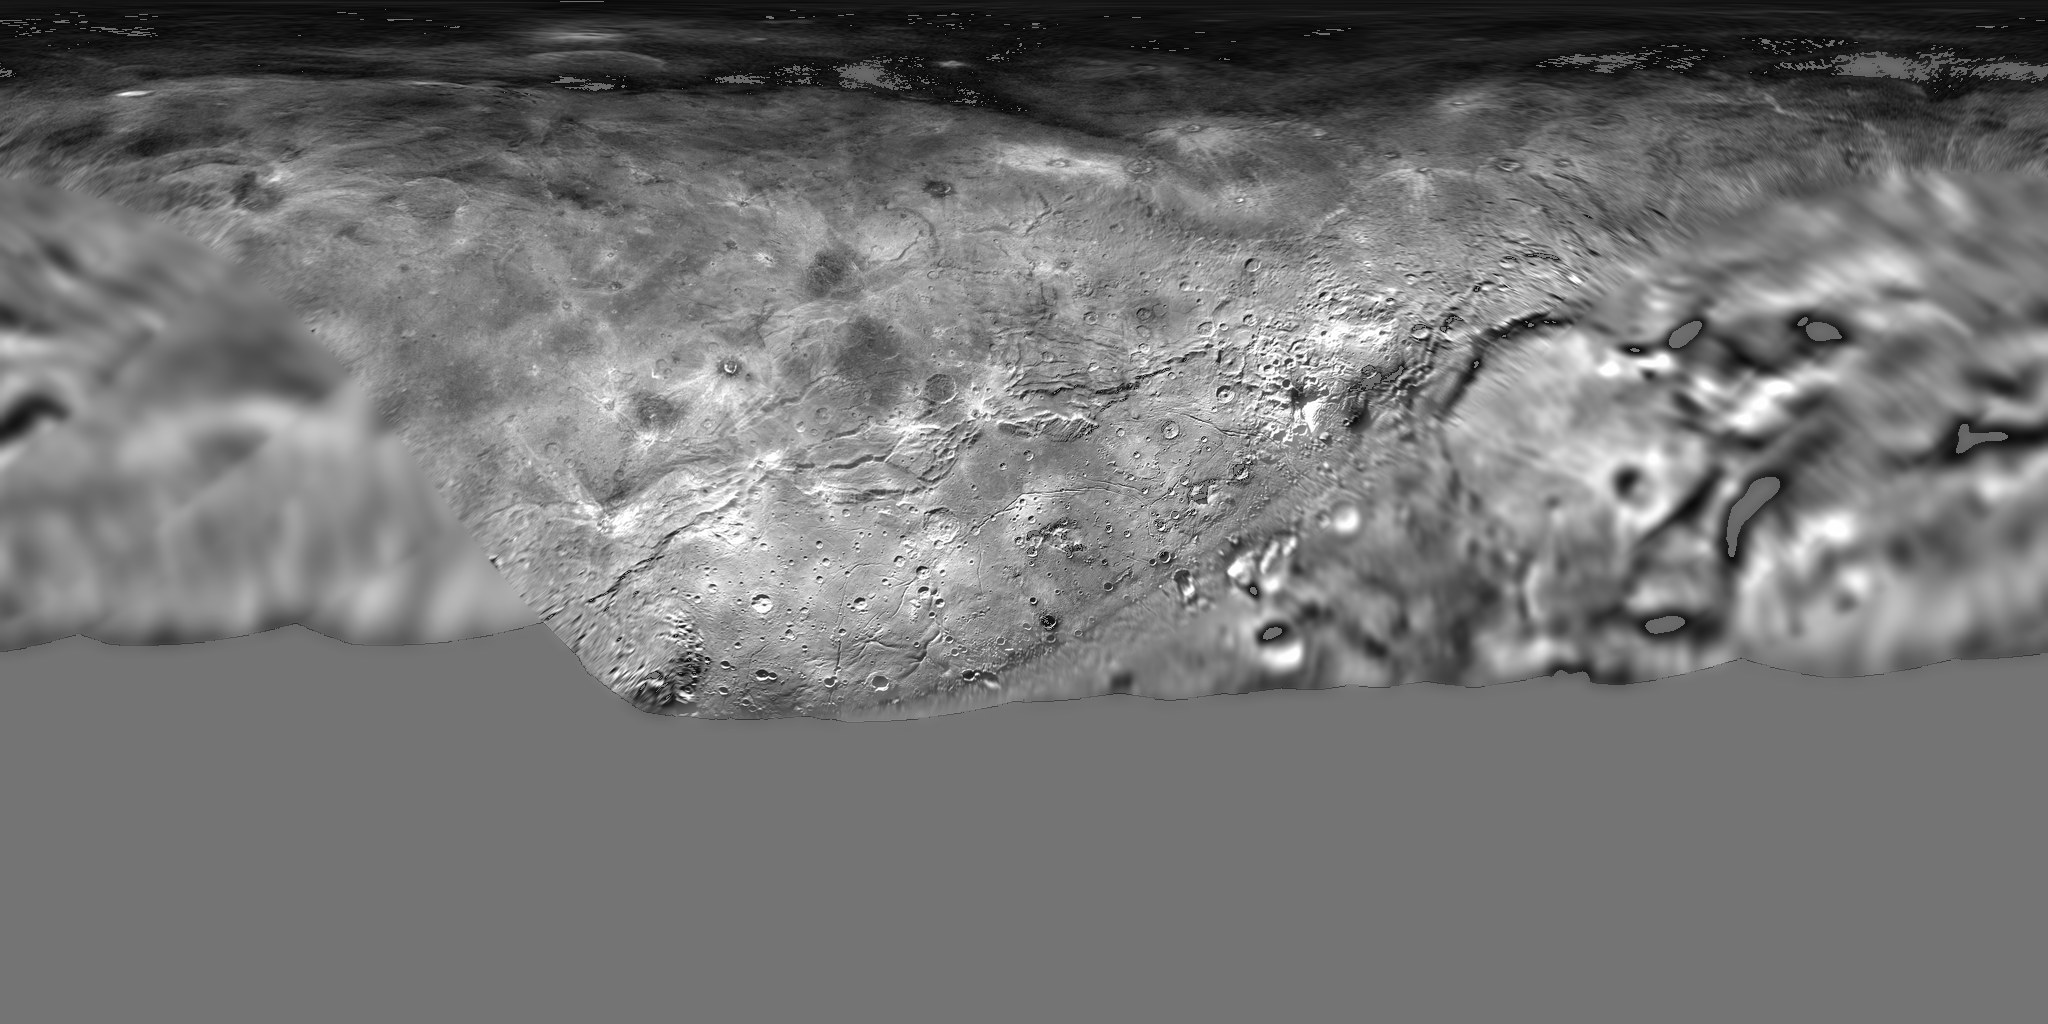
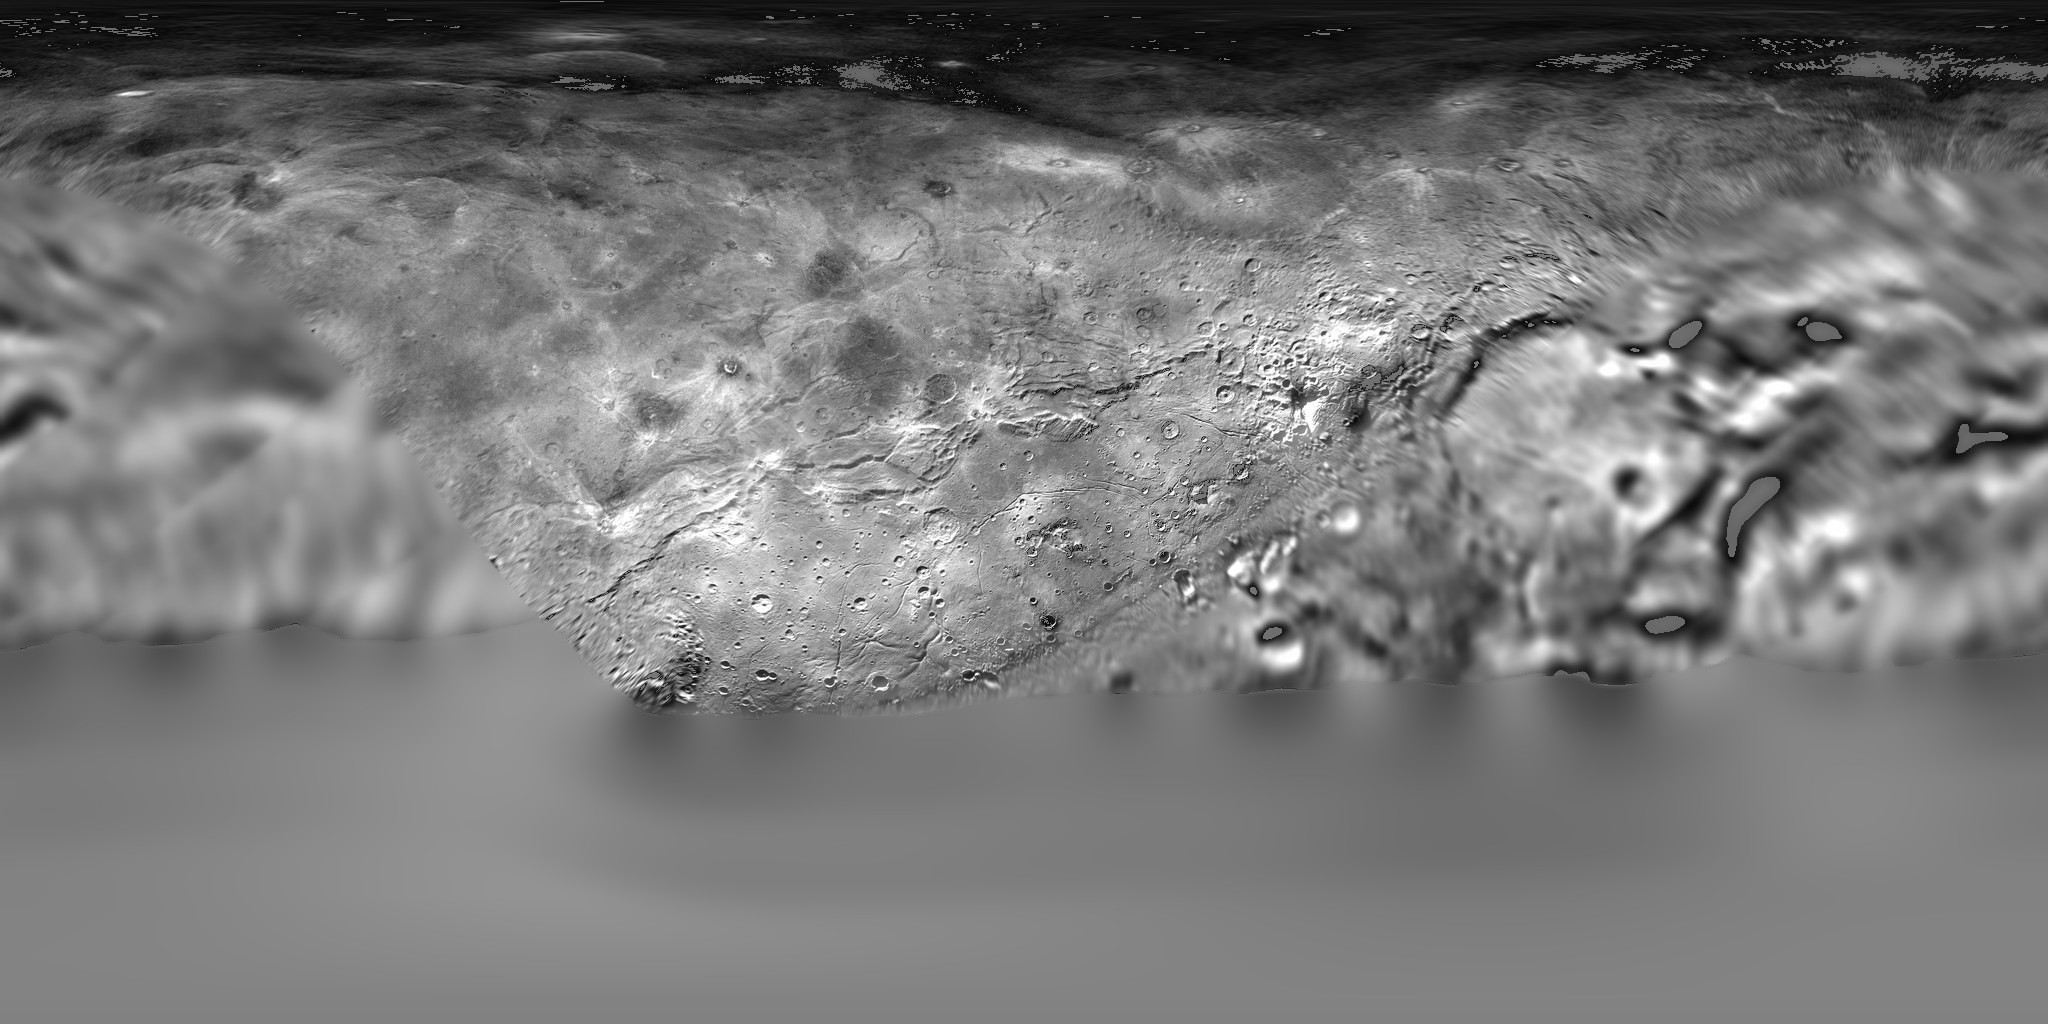
Triton, Pluto, Charon: fill the unmapped part of each map by carrying the edge colours into it, so no hard edge shows

diff --git a/build/fill-map.py b/build/fill-map.py
@@ -1,0 +1,64 @@
+# Fill the part of a map that has no data (black) by carrying the colours at its edge
+# into it, soft and seamless. usage: fill_map.py in.jpg out.jpg [preview.png]
+import sys
+import numpy as np
+from PIL import Image
+
+src, dst = sys.argv[1], sys.argv[2]
+img = np.asarray(Image.open(src).convert('RGB')).astype(np.float64) / 255
+h, w, _ = img.shape
+lum = img @ np.array([0.299, 0.587, 0.114])
+valid = lum > 0.07
+if lum[-1].min() > 0.07 and lum[-1].std() < 0.005 and lum[0].std() > 0.005:
+    # No black: the gap was painted one flat shade, up from the bottom edge.
+    shade = np.median(img[-1], axis=0)
+    flat = (np.abs(img - shade).max(axis=2) < 0.03)
+    hole = np.cumprod(flat[::-1], axis=0)[::-1].astype(bool)
+    valid = ~hole
+# The edge of the data is dark and jagged from compression: step back from it.
+
+def blur(a, sigma):
+    # Gaussian blur by FFT: wraps left to right; top and bottom are padded with the edge row.
+    p = min(int(3 * sigma) + 1, a.shape[0])
+    b = np.pad(a, ((p, p), (0, 0)), mode='edge')
+    fy = np.fft.fftfreq(b.shape[0])[:, None]
+    fx = np.fft.fftfreq(b.shape[1])[None, :]
+    g = np.exp(-2 * (np.pi * sigma) ** 2 * (fx * fx + fy * fy))
+    return np.real(np.fft.ifft2(np.fft.fft2(b) * g))[p:-p]
+
+valid = blur(valid.astype(np.float64), 3) > 0.97
+
+print('no data: %.1f%%' % (100 * (1 - valid.mean())))
+m = valid.astype(np.float64)
+fill = np.zeros_like(img)
+known = np.zeros((h, w), bool)
+for sigma in [3, 6, 12, 24, 48, 96, 192, 384]:
+    weight = blur(m, sigma)
+    ok = (weight > 0.02) & ~known
+    if ok.any():
+        for c in range(3):
+            fill[..., c][ok] = (blur(img[..., c] * m, sigma) / np.maximum(weight, 1e-9))[ok]
+        known |= ok
+if not known.all():
+    mean = img[valid].mean(axis=0)
+    fill[~known] = mean
+# Smooth the fill itself, so the steps between scales do not show.
+hole = ~valid
+for c in range(3):
+    f = np.where(hole, fill[..., c], img[..., c])
+    for _ in range(3):
+        f = np.where(hole, blur(f, 10), img[..., c])
+    fill[..., c] = f
+# Toward a pole every longitude is the same spot: run the rows together there.
+rows = np.arange(h)[:, None]
+lat = np.abs(rows / (h - 1) - 0.5) * 2            # 0 at the equator, 1 at a pole
+to_mean = np.clip((lat - 0.75) / 0.2, 0, 1)
+for c in range(3):
+    row_mean = fill[..., c].mean(axis=1, keepdims=True)
+    fill[..., c] = np.where(hole, fill[..., c] * (1 - to_mean) + row_mean * to_mean, fill[..., c])
+# Feather across the edge.
+soft = np.clip(blur(m, 5) * 1.6 - 0.3, 0, 1)[..., None]
+out = img * soft + fill * (1 - soft)
+Image.fromarray((np.clip(out, 0, 1) * 255 + 0.5).astype(np.uint8)).save(dst, quality=90)
+if len(sys.argv) > 3:
+    Image.fromarray((np.clip(out, 0, 1) * 255 + 0.5).astype(np.uint8)).resize((1024, 512)).save(sys.argv[3])

diff --git a/THIRD-PARTY.md b/THIRD-PARTY.md
@@ -24,10 +24,10 @@
 | `public/assets/planets/dione.jpg` | NASA/JPL-Caltech/Space Science Institute/Lunar and Planetary Institute, 카시니 컬러 전체 지도 PIA18434를 2048×1024로 줄임. https://science.nasa.gov/photojournal/ | NASA 자료, 저작권 없음 |
 | `public/assets/planets/rhea.jpg` | NASA/JPL-Caltech/Space Science Institute/Lunar and Planetary Institute, 카시니 컬러 전체 지도 PIA18438를 2048×1024로 줄임. https://science.nasa.gov/photojournal/ | NASA 자료, 저작권 없음 |
 | `public/assets/planets/iapetus.jpg` | NASA/JPL-Caltech/Space Science Institute/Lunar and Planetary Institute, 카시니 컬러 전체 지도 PIA18436를 2048×1024로 줄임. https://science.nasa.gov/photojournal/ | NASA 자료, 저작권 없음 |
-| `public/assets/planets/triton.jpg` | NASA/JPL-Caltech/Lunar and Planetary Institute, 보이저 2호 트리톤 컬러 지도 PIA18668을 2048×1024로 줄임. 보이저가 찍지 못한 북쪽은 한 가지 색으로 채웠다. https://science.nasa.gov/photojournal/ | NASA 자료, 저작권 없음 |
+| `public/assets/planets/triton.jpg` | NASA/JPL-Caltech/Lunar and Planetary Institute, 보이저 2호 트리톤 컬러 지도 PIA18668을 2048×1024로 줄임. 보이저가 찍지 못한 북쪽은 가장자리의 색을 흐리게 이어 붙여 채웠다(`build/fill-map.py`, 실제 지형이 아니다). https://science.nasa.gov/photojournal/ | NASA 자료, 저작권 없음 |
 | `public/assets/planets/ceres.jpg` | USGS Astrogeology, Ceres Dawn FC 전체 지도(DLR, 20픽셀/도, 2015년 10월)를 2048×1024로 줄임. https://planetarymaps.usgs.gov/mosaic/Ceres_Dawn_FC_DLR_global_20ppd_Oct2015.tif | NASA Dawn 탐사 자료. 지도 제작: 독일항공우주센터(DLR). 제공: NASA/JPL-Caltech/UCLA/MPS/DLR/IDA. USGS가 공개 배포 |
-| `public/assets/planets/pluto.jpg` | USGS Astrogeology, Pluto New Horizons 전체 지도(300m/픽셀, 2017년 7월)를 2048×1024로 줄임. 뉴허라이즌스가 찍지 못한 남쪽은 한 가지 밝기로 채웠다. https://planetarymaps.usgs.gov/mosaic/Pluto_NewHorizons_Global_Mosaic_300m_Jul2017_8bit.tif | 미국 정부 저작물, 저작권 없음 |
-| `public/assets/planets/charon.jpg` | USGS Astrogeology, Charon New Horizons 전체 지도(300m/픽셀, 2017년 7월)를 2048×1024로 줄임. 찍지 못한 남쪽은 한 가지 밝기로 채웠다. https://planetarymaps.usgs.gov/mosaic/Charon_NewHorizons_Global_Mosaic_300m_Jul2017_8bit.tif | 미국 정부 저작물, 저작권 없음 |
+| `public/assets/planets/pluto.jpg` | USGS Astrogeology, Pluto New Horizons 전체 지도(300m/픽셀, 2017년 7월)를 2048×1024로 줄임. 뉴허라이즌스가 찍지 못한 남쪽은 가장자리의 색을 흐리게 이어 붙여 채웠다(`build/fill-map.py`, 실제 지형이 아니다). https://planetarymaps.usgs.gov/mosaic/Pluto_NewHorizons_Global_Mosaic_300m_Jul2017_8bit.tif | 미국 정부 저작물, 저작권 없음 |
+| `public/assets/planets/charon.jpg` | USGS Astrogeology, Charon New Horizons 전체 지도(300m/픽셀, 2017년 7월)를 2048×1024로 줄임. 찍지 못한 남쪽은 가장자리의 색을 흐리게 이어 붙여 채웠다(`build/fill-map.py`, 실제 지형이 아니다). https://planetarymaps.usgs.gov/mosaic/Charon_NewHorizons_Global_Mosaic_300m_Jul2017_8bit.tif | 미국 정부 저작물, 저작권 없음 |
 | `src/core/constellations.js` | d3-celestial의 별자리 선과 이름 자료(constellations.lines.json, constellations.json)를 게임용으로 줄인 것. https://github.com/ofrohn/d3-celestial | BSD 3-Clause, Copyright (c) 2015 Olaf Frohn |
 | `@babylonjs/core` (npm) | https://github.com/BabylonJS/Babylon.js | Apache-2.0 |
 

diff --git a/README.md b/README.md
@@ -240,7 +240,7 @@ npm test
 
 ## 출처
 
-지구, 달, 타이탄과 토성·해왕성의 위성은 NASA 지도를, 이오·유로파·가니메데·칼리스토·포보스는 USGS 지도를, 수성·금성·화성·목성·토성·해왕성은 Solar System Scope 지도(CC BY 4.0)를 썼다. 지도 크기는 2048×1024가 기본이고 달, 화성, 목성, 지구 낮 지도는 4096×2048이다. 천왕성과 그 위성 다섯, 데이모스는 셰이더로 그렸다. 도트 그림 캐릭터 서라는 이 게임에 쓰려고 따로 만든 그림이고, 종이 인형 캐릭터는 Blender로 종이 공예 모델을 만들어 삼각형 680개로 뽑았고, 권리를 보유한다(아래 라이선스 참고). 자세한 출처는 [THIRD-PARTY.md](THIRD-PARTY.md) 에 있다.
+지구, 달, 타이탄과 토성·해왕성의 위성은 NASA 지도를, 이오·유로파·가니메데·칼리스토·포보스는 USGS 지도를, 수성·금성·화성·목성·토성·해왕성은 Solar System Scope 지도(CC BY 4.0)를 썼다. 지도 크기는 2048×1024가 기본이고 달, 화성, 목성, 지구 낮 지도는 4096×2048이다. 천왕성과 그 위성 다섯, 데이모스는 셰이더로 그렸다. 탐사선이 찍지 못한 트리톤 북쪽 39%, 명왕성 남쪽 32%, 카론 남쪽 34%는 가장자리의 색을 흐리게 이어 붙여 채웠고 실제 지형이 아니다. 도트 그림 캐릭터 서라는 이 게임에 쓰려고 따로 만든 그림이고, 종이 인형 캐릭터는 Blender로 종이 공예 모델을 만들어 삼각형 680개로 뽑았고, 권리를 보유한다(아래 라이선스 참고). 자세한 출처는 [THIRD-PARTY.md](THIRD-PARTY.md) 에 있다.
 
 ## 라이선스
 

diff --git a/docs/Space-Oddity-상세기획서.md b/docs/Space-Oddity-상세기획서.md
@@ -302,6 +302,7 @@
 - 요철: 높이가 화면에서 변하는 정도로 땅의 기울기를 구해 빛 계산에 넣는다. 그래서 테두리의 해 쪽은 밝고 바닥에는 그늘이 진다. 처음에는 깊이를 지름과 같게 잡아 물방울처럼 보여서 실제 비율로 낮췄다.
 - 잔무늬: 분화구 있는 천체는 경도 방향으로 늘이지 않고 사방 고른 잡음을 쓴다.
 - 반쪽만 자세한 지도: 명왕성, 카론, 트리톤은 탐사선이 한 번 지나가며 찍은 쪽만 선명하고 나머지는 흐리거나 비어 있다. 지도를 두 단계로 흐리게 읽어 그 차이가 작은 곳(잔무늬가 없는 곳)을 흐린 곳으로 보고, 거기에는 거리와 상관없이 얼룩 두 겹과 분화구를 덧그린다. 선명한 쪽만큼 또렷해지지는 않고, 밋밋한 면이 거친 땅으로 바뀌는 정도다.
+- 자료가 없는 곳 메우기: 트리톤 지도의 북쪽 39%는 검정, 명왕성 남쪽 32%와 카론 남쪽 34%는 한 가지 회색이었다. 셰이더가 그 위에 얼룩과 분화구를 덧그려도 경계가 칼로 자른 듯 보였다. 그래서 지도 그림 자체를 고쳤다(`build/fill-map.py`, numpy와 Pillow 필요): 자료가 있는 가장자리의 색을 점점 넓게 흐려(3 → 384픽셀) 빈 곳으로 이어 붙이고, 극 가까이(위도 68도 너머)에서는 같은 위도의 평균색으로 모으며, 경계는 5픽셀 폭으로 섞는다. 채운 곳은 실제 지형이 아니다.
 - 실제 지형이 아니다. 천체에 붙어 함께 자전하고, 늘 같은 자리에 같은 분화구가 있다.
 
 #### 사진첩
